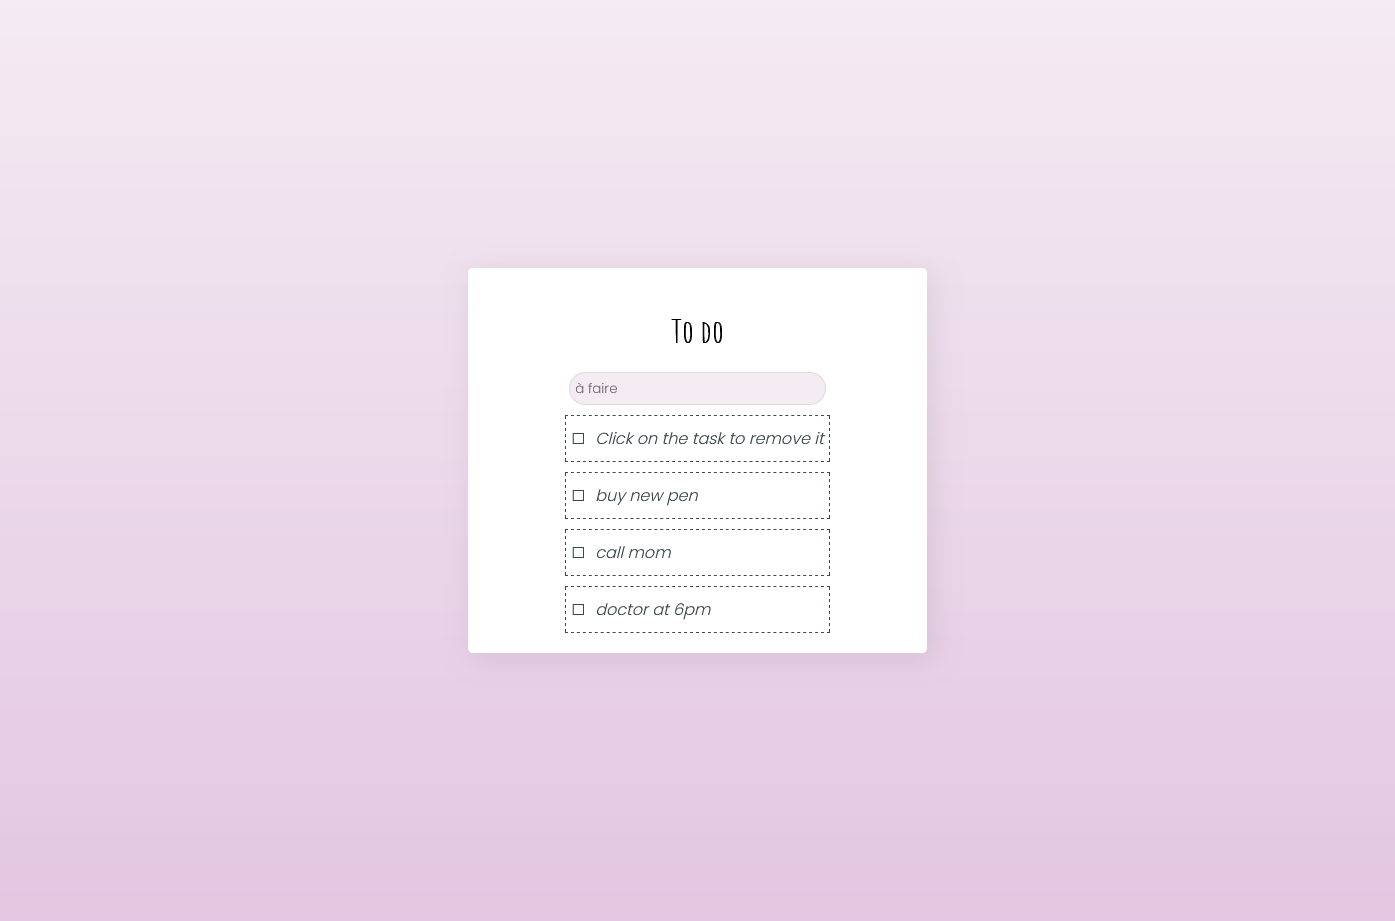
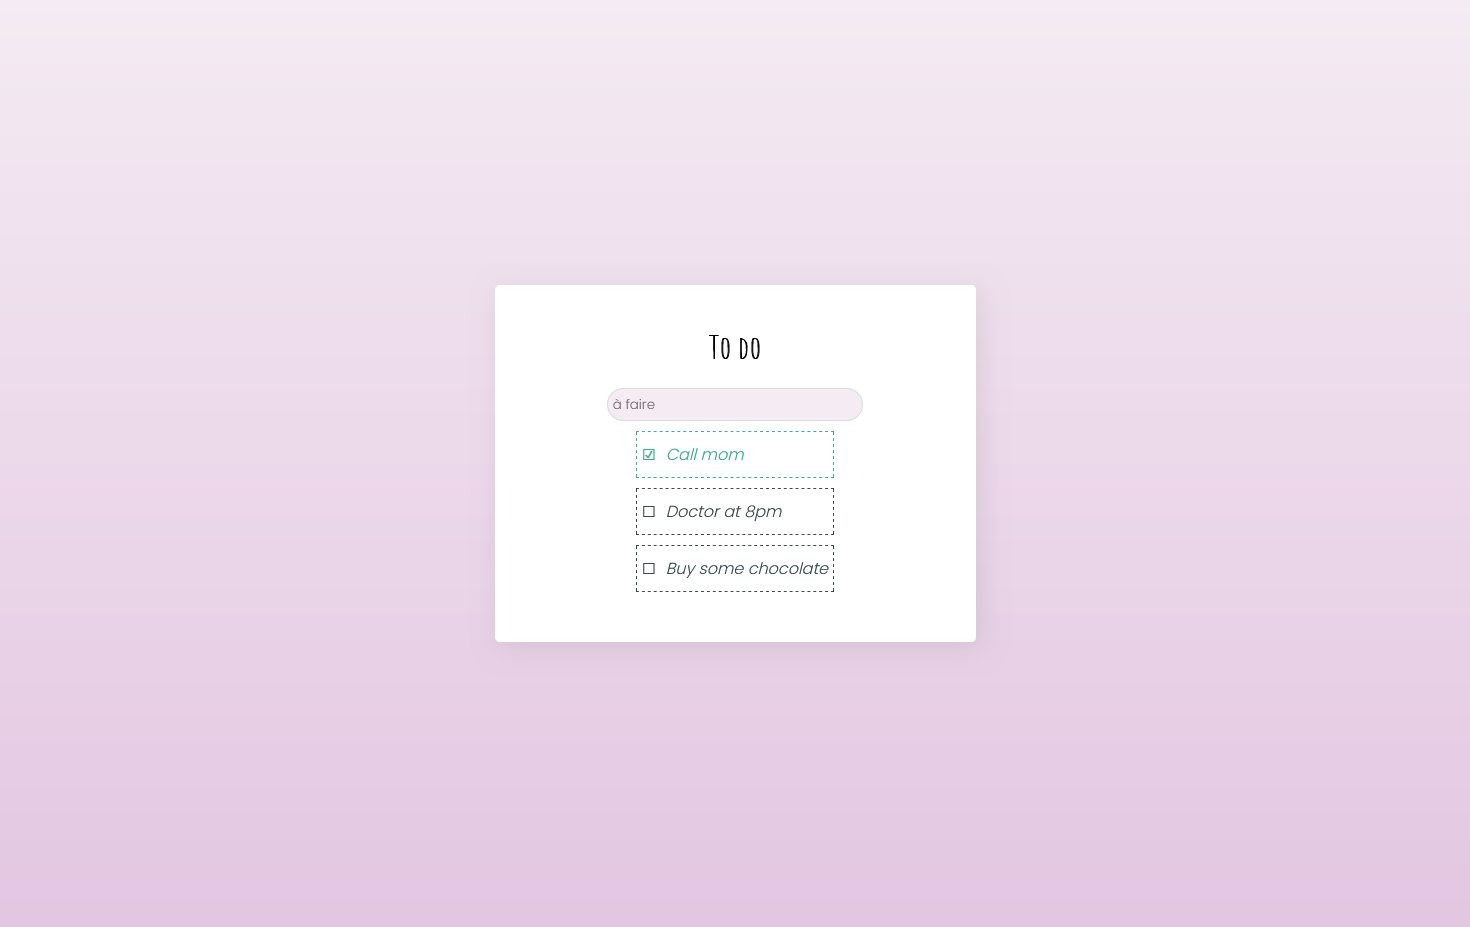
quick fixes on ths style

Changed region(s): [[0.3391, 0.3952, 0.6781, 0.7296], [0.3391, 0.2736, 0.6781, 0.3952]]

diff --git a/to-do-list/todo.css b/to-do-list/todo.css
@@ -32,7 +32,7 @@ h1 {
 
 .todo-container {
     background: white;
-    padding: 20px;
+    padding: 20px 20px 50px;
     min-width: 30%;
     height: fit-content;
     border-radius: 5px;
